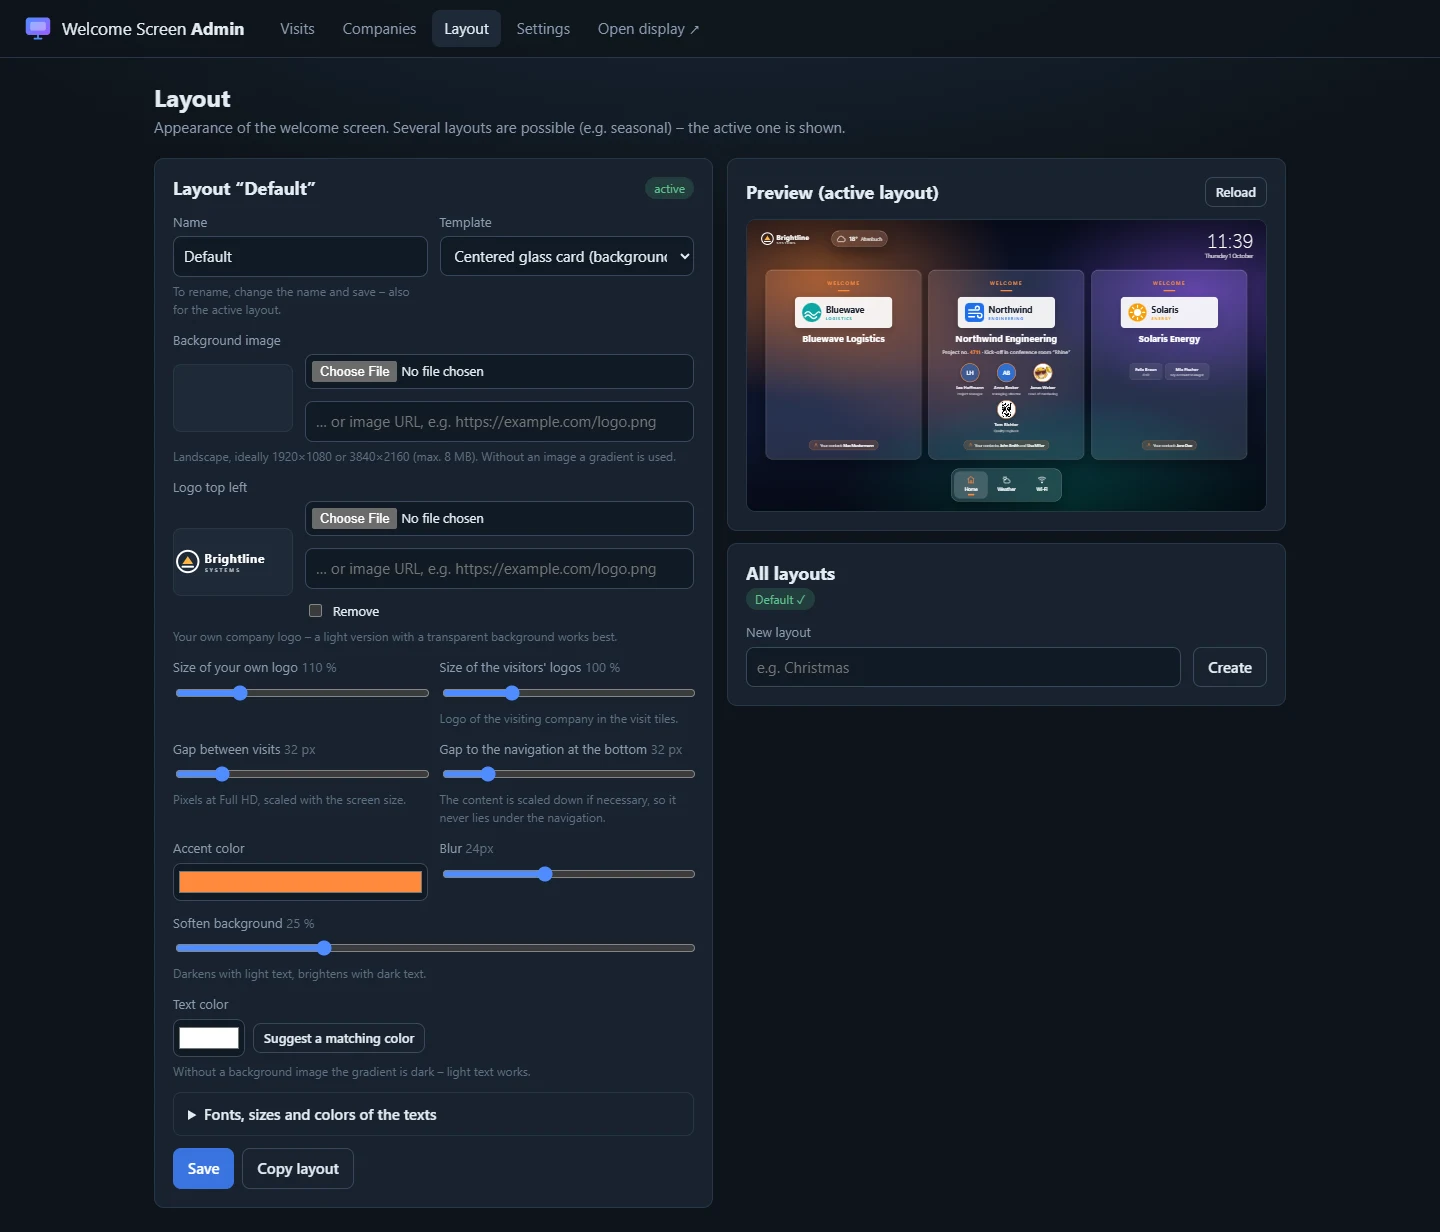
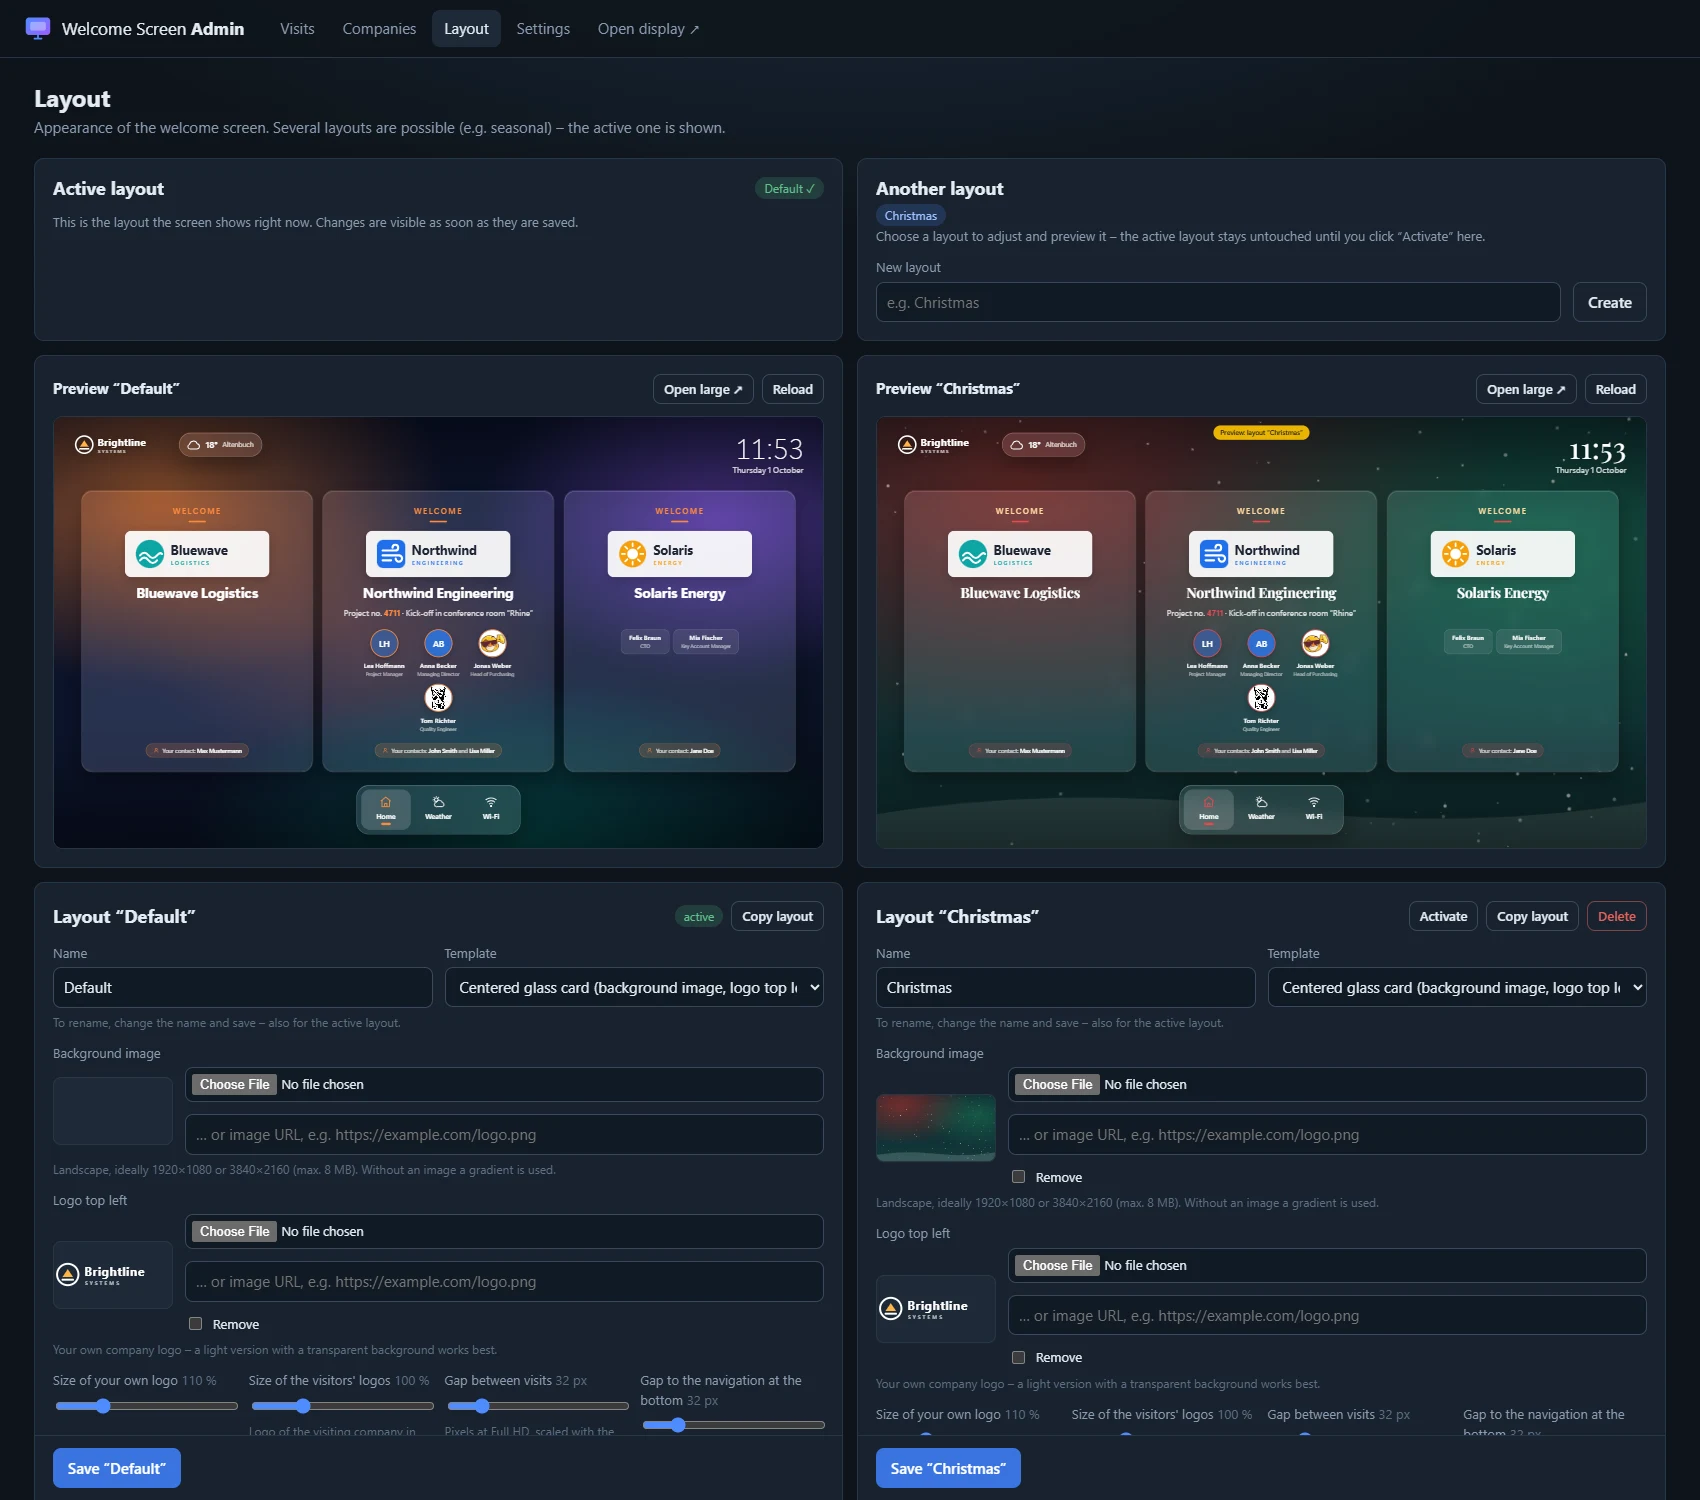
docs: refresh the layout screenshot in the README

diff --git a/README.md b/README.md
@@ -16,7 +16,7 @@ from Claude and other AI assistants (*"Northwind is visiting tomorrow with Anna 
 
 <p>
   <img src="docs/images/admin-visit-edit.webp" alt="Scheduling a visit in the admin area" width="49%">
-  <img src="docs/images/admin-layout.webp" alt="Layout settings with live preview" width="49%">
+  <img src="docs/images/admin-layout.webp" alt="Layout page: active layout and another layout side by side" width="49%">
 </p>
 
 ## Features
